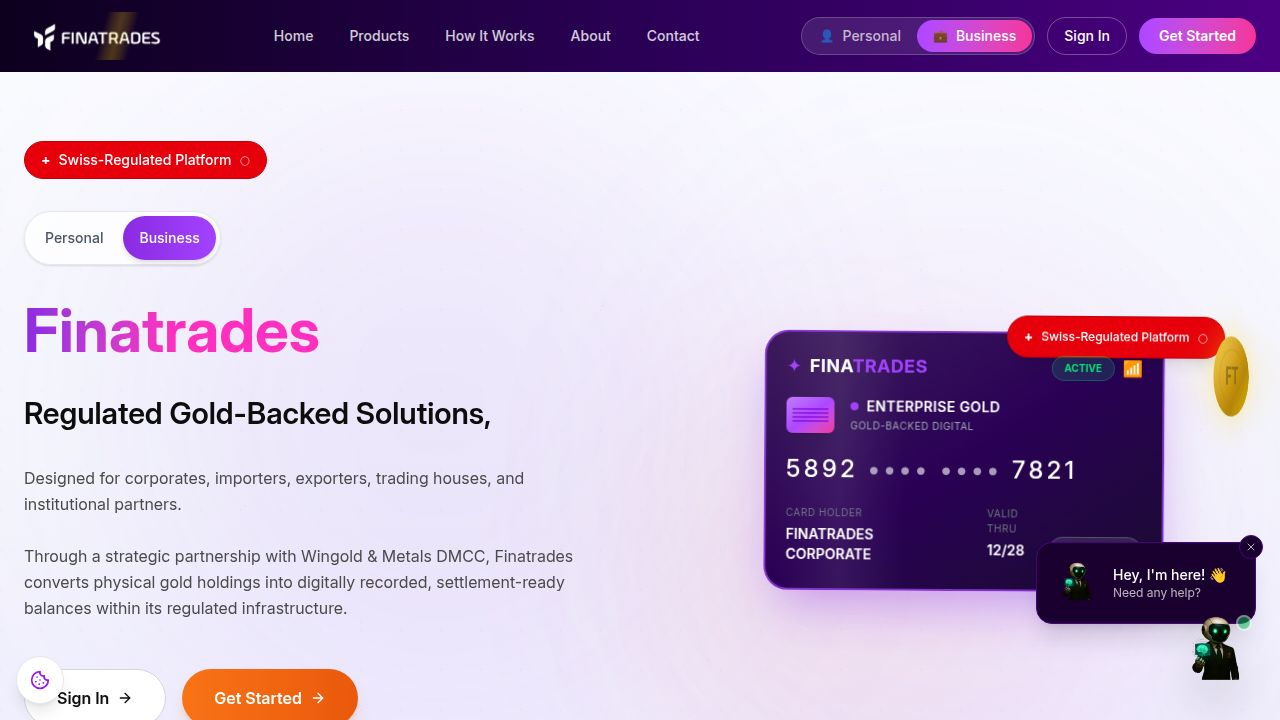
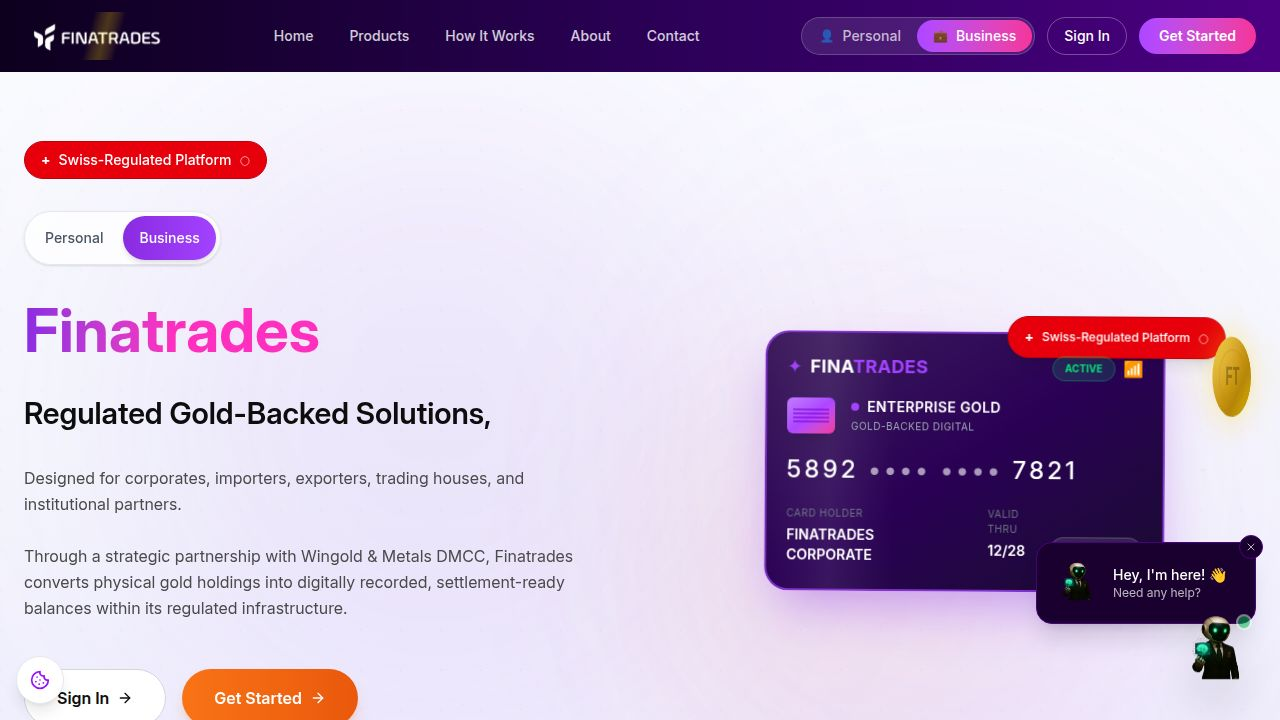
Remove the branded 3D gold coin animation from the landing page
Deleted the `GoldCoin3D.tsx` component file and removed its usage from the FinaGold Hero section to eliminate the "FT" branded coin animation.

Replit-Commit-Author: Agent
Replit-Commit-Session-Id: 7ce4809d-d46a-4f8f-975a-7e9ebacf3577
Replit-Commit-Checkpoint-Type: full_checkpoint
Replit-Commit-Event-Id: a0d2e2a2-ca68-4637-8981-0520272ccfa5
Replit-Commit-Screenshot-Url: https://storage.googleapis.com/screenshot-production-us-central1/e7e55994-7ffa-4458-b8c4-25893d03b997/7ce4809d-d46a-4f8f-975a-7e9ebacf3577/0SkZe14
Replit-Helium-Checkpoint-Created: true

diff --git a/client/src/pages/finagold/components/Hero.tsx b/client/src/pages/finagold/components/Hero.tsx
@@ -6,7 +6,6 @@ import { useMode } from '../context/ModeContext';
 import finatradesLogo from '@/assets/finatrades-logo-purple.png';
 import ParticleField from '@/components/animations/ParticleField';
 import GradientMesh from '@/components/animations/GradientMesh';
-import GoldCoin3D from '@/components/animations/GoldCoin3D';
 import SecurityBadge from '@/components/animations/SecurityBadge';
 
 const content = {
@@ -355,14 +354,6 @@ export default function Hero() {
             transition={{ duration: 0.8, delay: 0.3 }}
             className="relative hidden lg:block"
           >
-            {/* Floating 3D Gold Coin */}
-            <motion.div
-              className="absolute -top-8 -right-4 z-20"
-              animate={{ y: [0, -8, 0] }}
-              transition={{ duration: 4, repeat: Infinity, ease: 'easeInOut' }}
-            >
-              <GoldCoin3D size={80} />
-            </motion.div>
             <AnimatePresence mode="wait">
               <motion.div
                 key={mode}